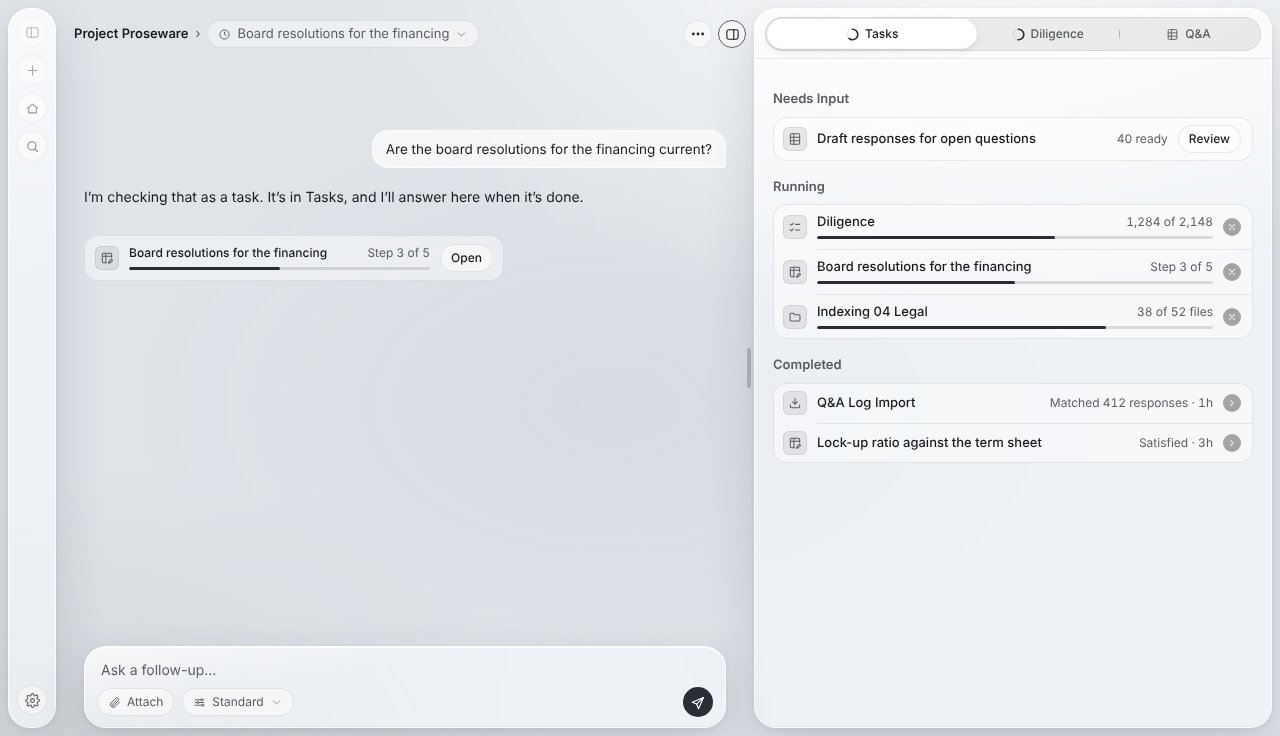
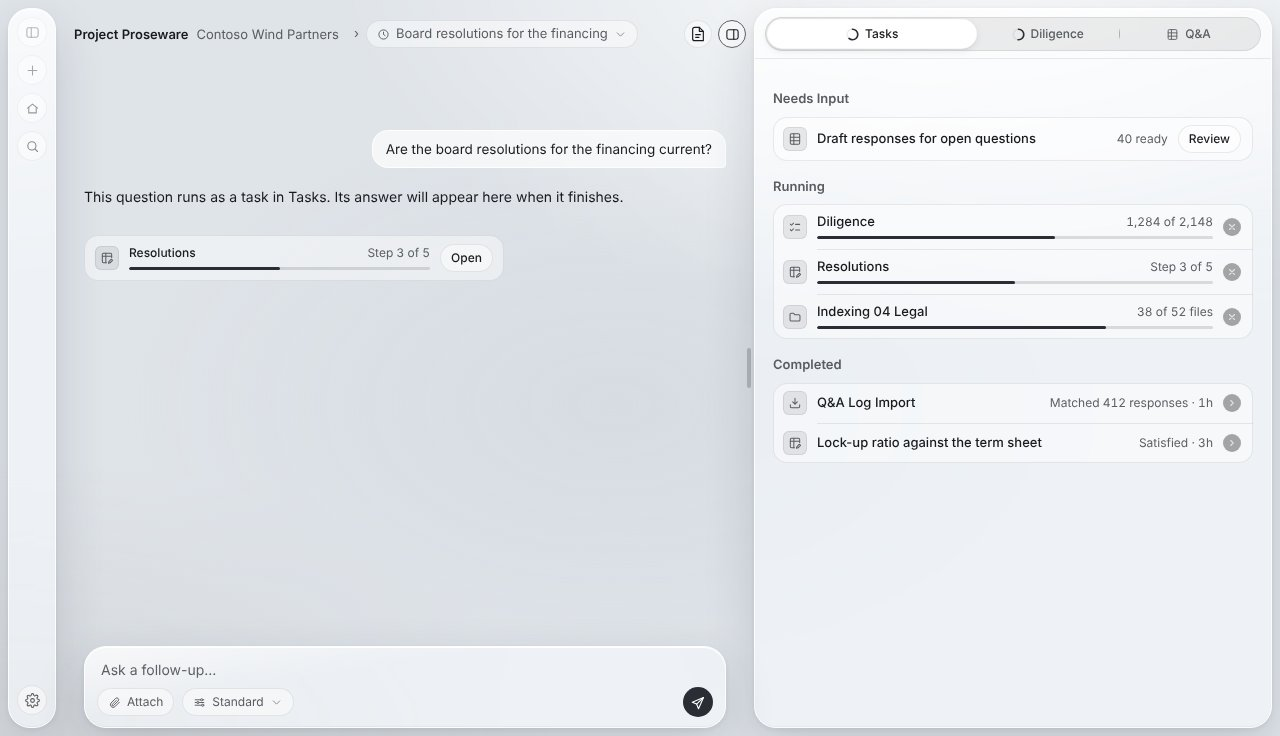
Narrate task steps in a neutral voice, and shorten the resolutions task's name (#888)

diff --git a/docs/deal-screen/mock-pane.js b/docs/deal-screen/mock-pane.js
@@ -12,7 +12,7 @@ const DILIGENCE_TAB = { kind: 'diligence', label: 'Diligence' };
 const QA_TAB = { kind: 'qa', label: 'Q&amp;A' };
 const FINDING_TAB = { kind: 'finding', label: 'Guarantee cap is lower than the term sheet' };
 const DOCUMENT_TAB = { kind: 'document', label: 'Parent company guarantee (draft 2).pdf' };
-const TASK_TAB = { kind: 'task', label: 'Board resolutions for the financing' };
+const TASK_TAB = { kind: 'task', label: BOARD_TASK };
 
 /** The pane's tabs: the three core tabs (or the given versions of them), then the opened items. */
 function paneTabs(given, selectedKind) {
@@ -69,7 +69,7 @@ const TASKS_LIST = `<div class="x-lbl">Needs Input</div>
     { end: '<button class="btn sm">Review</button>' })}</div>
 <div class="x-lbl">Running</div>
 <div class="x-tgroup">${taskRow('cklist', 'Diligence', '1,284 of 2,148', { bar: 0.6, end: STOP_BUTTON })}
-${taskRow('logedit', 'Board resolutions for the financing', 'Step 3 of 5',
+${taskRow('logedit', BOARD_TASK, 'Step 3 of 5',
     { bar: 0.5, end: STOP_BUTTON, hoverText: 'Reading Credit agreement (draft 6).pdf' })}
 ${taskRow('folder', 'Indexing 04 Legal', '38 of 52 files', { bar: 0.73, end: STOP_BUTTON })}</div>
 <div class="x-lbl">Completed</div>
@@ -87,18 +87,18 @@ function taskStep(iconName, text, count, live = false) {
     + `<span class="tv">${icon('chev', 13)}</span></div>`;
 }
 
-const TASK_HEADING = '<h2>Board resolutions for the financing</h2>';
+const TASK_HEADING = `<h2>${BOARD_TASK}</h2>`;
 const TASK_ASK = '<div class="me">Check whether the board resolutions approving the financing are current.</div>';
-const TASK_STEPS_SO_FAR = `<p class="nar">I’ll find the resolutions first, then compare them with the latest credit`
+const TASK_STEPS_SO_FAR = `<p class="nar">Locating the board resolutions, then comparing them with the latest credit`
   + ` agreement.</p>
 ${taskStep('search', 'Searched 04 Legal for board resolutions', '7 files')}
-<p class="nar">Two resolutions approve the financing: January 18 and March 4. The March one replaces the January`
-  + ` one.</p>
+<p class="nar">Two resolutions approve the financing, dated January 18 and March 4. The March resolution`
+  + ` supersedes the January resolution.</p>
 ${taskStep('doc', 'Read Board resolution (Mar 4).pdf', 'p. 2')}`;
 
 const TASK_RUNNING = `<div class="x-tv"><div class="sc">${TASK_HEADING}
 ${TASK_ASK}${TASK_STEPS_SO_FAR}
-<p class="nar">The March resolution approves draft 4. Now checking what changed in draft 6:</p>
+<p class="nar">The March resolution approves draft 4. Comparing draft 6 with draft 4.</p>
 ${taskStep('doc', 'Reading Credit agreement (draft 6).pdf', '', true)}
 <div class="x-spin">2m 14s · step 3 of 5</div>
 </div>${taskReplyBox}</div>`;

diff --git a/docs/deal-screen/mock-chat.js b/docs/deal-screen/mock-chat.js
@@ -65,24 +65,24 @@ const TURN_COUNTERPARTY = `<div class="me">Has the counterparty answered anythin
   + ` Nov&nbsp;12. Q87 on the guarantor’s credit rating was answered on Oct&nbsp;30.</p>${ACTIONS_MARK}</div>`;
 
 const TURN_DRAFT_RESPONSE = `<div class="me">Draft a response to Q433 from the documents.</div>
-<div class="ai"><p>Drafted from the grid operator’s letter and the connection agreement. It’s on Q433 for you to`
-  + ` check, and nothing is sent until you use it.</p>${ACTIONS_MARK}</div>`;
+<div class="ai"><p>Drafted from the grid operator’s letter and the connection agreement. The draft is on Q433`
+  + ` for review and is not sent until it is accepted.</p>${ACTIONS_MARK}</div>`;
 
 const TURN_RECHECK = `<div class="me">Two new files arrived in 04 Legal. Check them against the checklist.</div>
-<div class="ai"><p>Checking the checklist and findings against the 2 new files. The report updates as I go.</p>
+<div class="ai"><p>Checking the checklist and findings against the 2 new files. The report updates as each item is checked.</p>
 ${taskCard('cklist', 'Diligence', '1,204 of 2,148', 0.56)}</div>`;
 
 const ASK_BOARD_RESOLUTIONS = '<div class="me">Are the board resolutions for the financing current?</div>';
 
 const TURN_BOARD_TASK_RUNNING = `${ASK_BOARD_RESOLUTIONS}
 <div class="ai"><p>This question runs as a task in Tasks. Its answer will appear here when it finishes.</p>
-${taskCard('logedit', 'Board resolutions for the financing', 'Step 3 of 5', 0.5,
+${taskCard('logedit', BOARD_TASK, 'Step 3 of 5', 0.5,
     'Reading Credit agreement (draft 6).pdf')}</div>`;
 
 const TURN_BOARD_TASK_DONE = `${ASK_BOARD_RESOLUTIONS}
 <div class="ai"><p>The resolutions are out of date. The board approved draft 4 of the credit agreement, and draft 6`
-  + ' changes the facility size and adds a hedging bank. I proposed it as a finding for you to review.</p>\n'
-  + `${taskCard('logedit', 'Board resolutions for the financing', 'Done · 4 documents')}${ACTIONS_MARK}</div>`;
+  + ' changes the facility size and adds a hedging bank. It is proposed as a finding for review.</p>\n'
+  + `${taskCard('logedit', BOARD_TASK, 'Done · 4 documents')}${ACTIONS_MARK}</div>`;
 
 /** Puts the answer actions in place of the last mark only; earlier marks stay as empty comments. */
 function withLastAnswerActions(html) {

diff --git a/docs/deal-screen/mock-parts.js b/docs/deal-screen/mock-parts.js
@@ -7,6 +7,9 @@ const screen = hashParams.get('s') || 'empty';
 document.documentElement.dataset.theme = hashParams.get('theme') || 'dark';
 const windowWidth = innerWidth;
 const narrowWindow = windowWidth <= 1180;
+
+// the board resolutions task's short name, so it reads whole on its tab, its card and its row
+const BOARD_TASK = 'Resolutions';
 const sidebarWidth = narrowWindow ? 208 : 236;
 
 /** An icon from icons.js as an SVG, at the given size and stroke width. */
